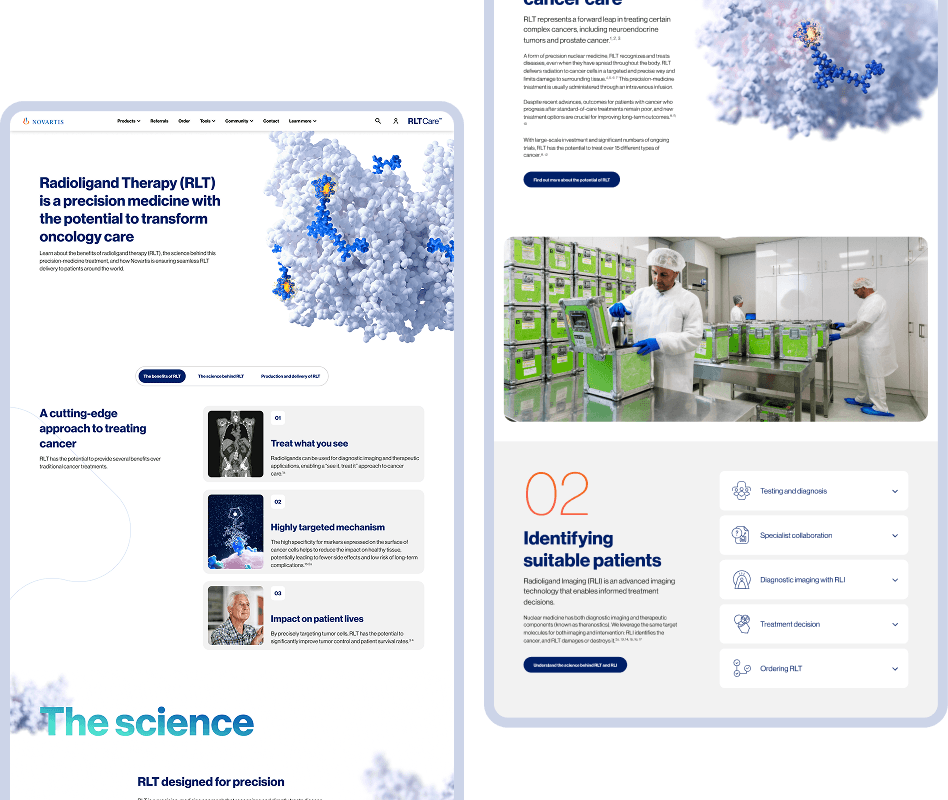
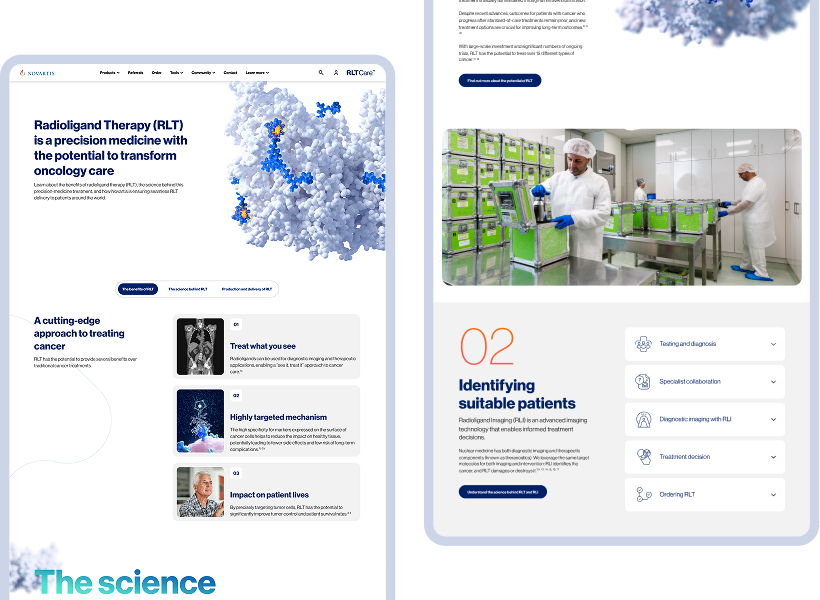
update selected projects thumbnails

diff --git a/index.html b/index.html
@@ -122,9 +122,13 @@
           <h5>Selected projects</h5>
         </div>
 
+
+
+
+
         <!-- NOVARTIS -->
 
-        <div class="selected-projects__item bg-color-rltcare__blue border-radius__10">
+        <div class="selected-projects__item">
 
 
 
@@ -164,7 +168,7 @@
           </a>
 
 
-          <div class="selected-projects__grid-span-image">
+          <div class="selected-projects__grid-span-image bg-color-rltcare__blue">
             <img class="selected-projects__main-img" src="img/home-thumbnails/novartis-home__featured-01.png" alt="">
             <img class="selected-projects__right-img" src="img/home-thumbnails/novartis-home__featured-02.png" alt="">
             <img class="selected-projects__left-img" src="img/home-thumbnails/novartis-home__featured-03.png" alt="">
@@ -176,14 +180,10 @@
         </div>
 
 
-
-
-
-
         <!-- UNDO -->
 
+        <div class="selected-projects__item">
 
-        <div class="selected-projects__item bg-color-undo__black border-radius__10">
 
 
           <a class="selected-projects__grid-span-info" href="project__undo.html">
@@ -200,7 +200,8 @@
                 <div class="caption__title text-color__white-blue padding-bottom__4">
                   Type
                 </div>
-                <p class="p__small text-color__light-blue padding-bottom__24">Visual identity, mobile + web design, Webflow             
+                <p class="p__small text-color__light-blue padding-bottom__24">
+                  Visual identity, mobile + web design, Webflow
                 </p>
 
                 
@@ -221,13 +222,19 @@
           </a>
 
 
-          <div class="selected-projects__grid-span-image">
+          <div class="selected-projects__grid-span-image bg-color-undo__black">
             <img class="selected-projects__main-img" src="img/home-thumbnails/undo-home__featured-01.png" alt="">
+            <img class="selected-projects__right-img" src="img/home-thumbnails/undo-home__featured-02.png" alt="">
+            <img class="selected-projects__left-img" src="img/home-thumbnails/undo-home__featured-03.png" alt="">
           </div>
 
 
 
+
         </div>
+
+
+
 
 
 

diff --git a/styles/home__projects.css b/styles/home__projects.css
@@ -12,14 +12,13 @@
   display: grid;
   grid-template-columns: repeat(12, 1fr);
   grid-template-rows: 1fr;
-  column-gap: 0px;
+  column-gap: 12px;
   height: 600px;
   overflow: hidden;
 }
 
 .selected-projects__grid-span-info{
   grid-column: span 3;
-  padding: 20px 0px 20px 20px;
   display: flex;
   z-index: 50;
 }
@@ -29,7 +28,7 @@
   flex-direction: column;
   justify-content: space-between;
   padding: 44px 28px;
-  border-radius: 8px;
+  border-radius: 10px;
  
   background-color: #3C4144;
 }
@@ -44,6 +43,9 @@
   justify-content: center;
   align-items: center;
   position: relative;
+  border-radius: 10px;
+  overflow: hidden;
+
 }
 
 .selected-projects__main-img{
@@ -60,7 +62,7 @@
 
 .selected-projects__left-img{
     position: absolute;
-    inset: auto auto 0% -200px;;
+    inset: auto auto 0% 0%;
 }
 
 
@@ -212,10 +214,7 @@
   grid-column: span 8;
 }
 
-.selected-projects__main-img{
-  z-index: 0;
-  overflow: visible;
-}
+
 
 .selected-projects__right-img,
 .selected-projects__left-img{
@@ -246,6 +245,8 @@ display: none;
     padding: 32px 24px;
   }
 
+
+
   .more-projects__card-info{
     padding: 12px 24px 12px 24px;
   }
@@ -256,6 +257,20 @@ display: none;
 
 
 @media screen and (max-width: 767px) {
+
+  .selected-projects__item{
+    column-gap: 0px;
+  }
+
+    .selected-projects__item-card{
+    border-radius: 10px 0px 0px 10px;
+  }
+
+  .selected-projects__grid-span-image{
+    border-radius: 0px 10px 10px 0px;
+  }
+
+
 
   .more-projects__cards-grid{
     grid-template-columns: repeat(1, 1fr);
@@ -284,7 +299,7 @@ display: none;
   .selected-projects__grid-span-info{
     grid-row: 1;
     grid-column: span 12;
-    padding: 0PX;
+    padding: 0px;
 }
   .selected-projects__item-card{
     height: auto;
@@ -297,12 +312,14 @@ display: none;
     grid-row: 2;
     grid-column: span 12;
     height: 300px;
+    border-radius: 0px 0px 10px 10px;
   }
-.more-projects__card-indv{
 
-  height: 400px;
+  .more-projects__card-indv{
 
-}
+    height: 400px;
+
+  }
 
 
 }
